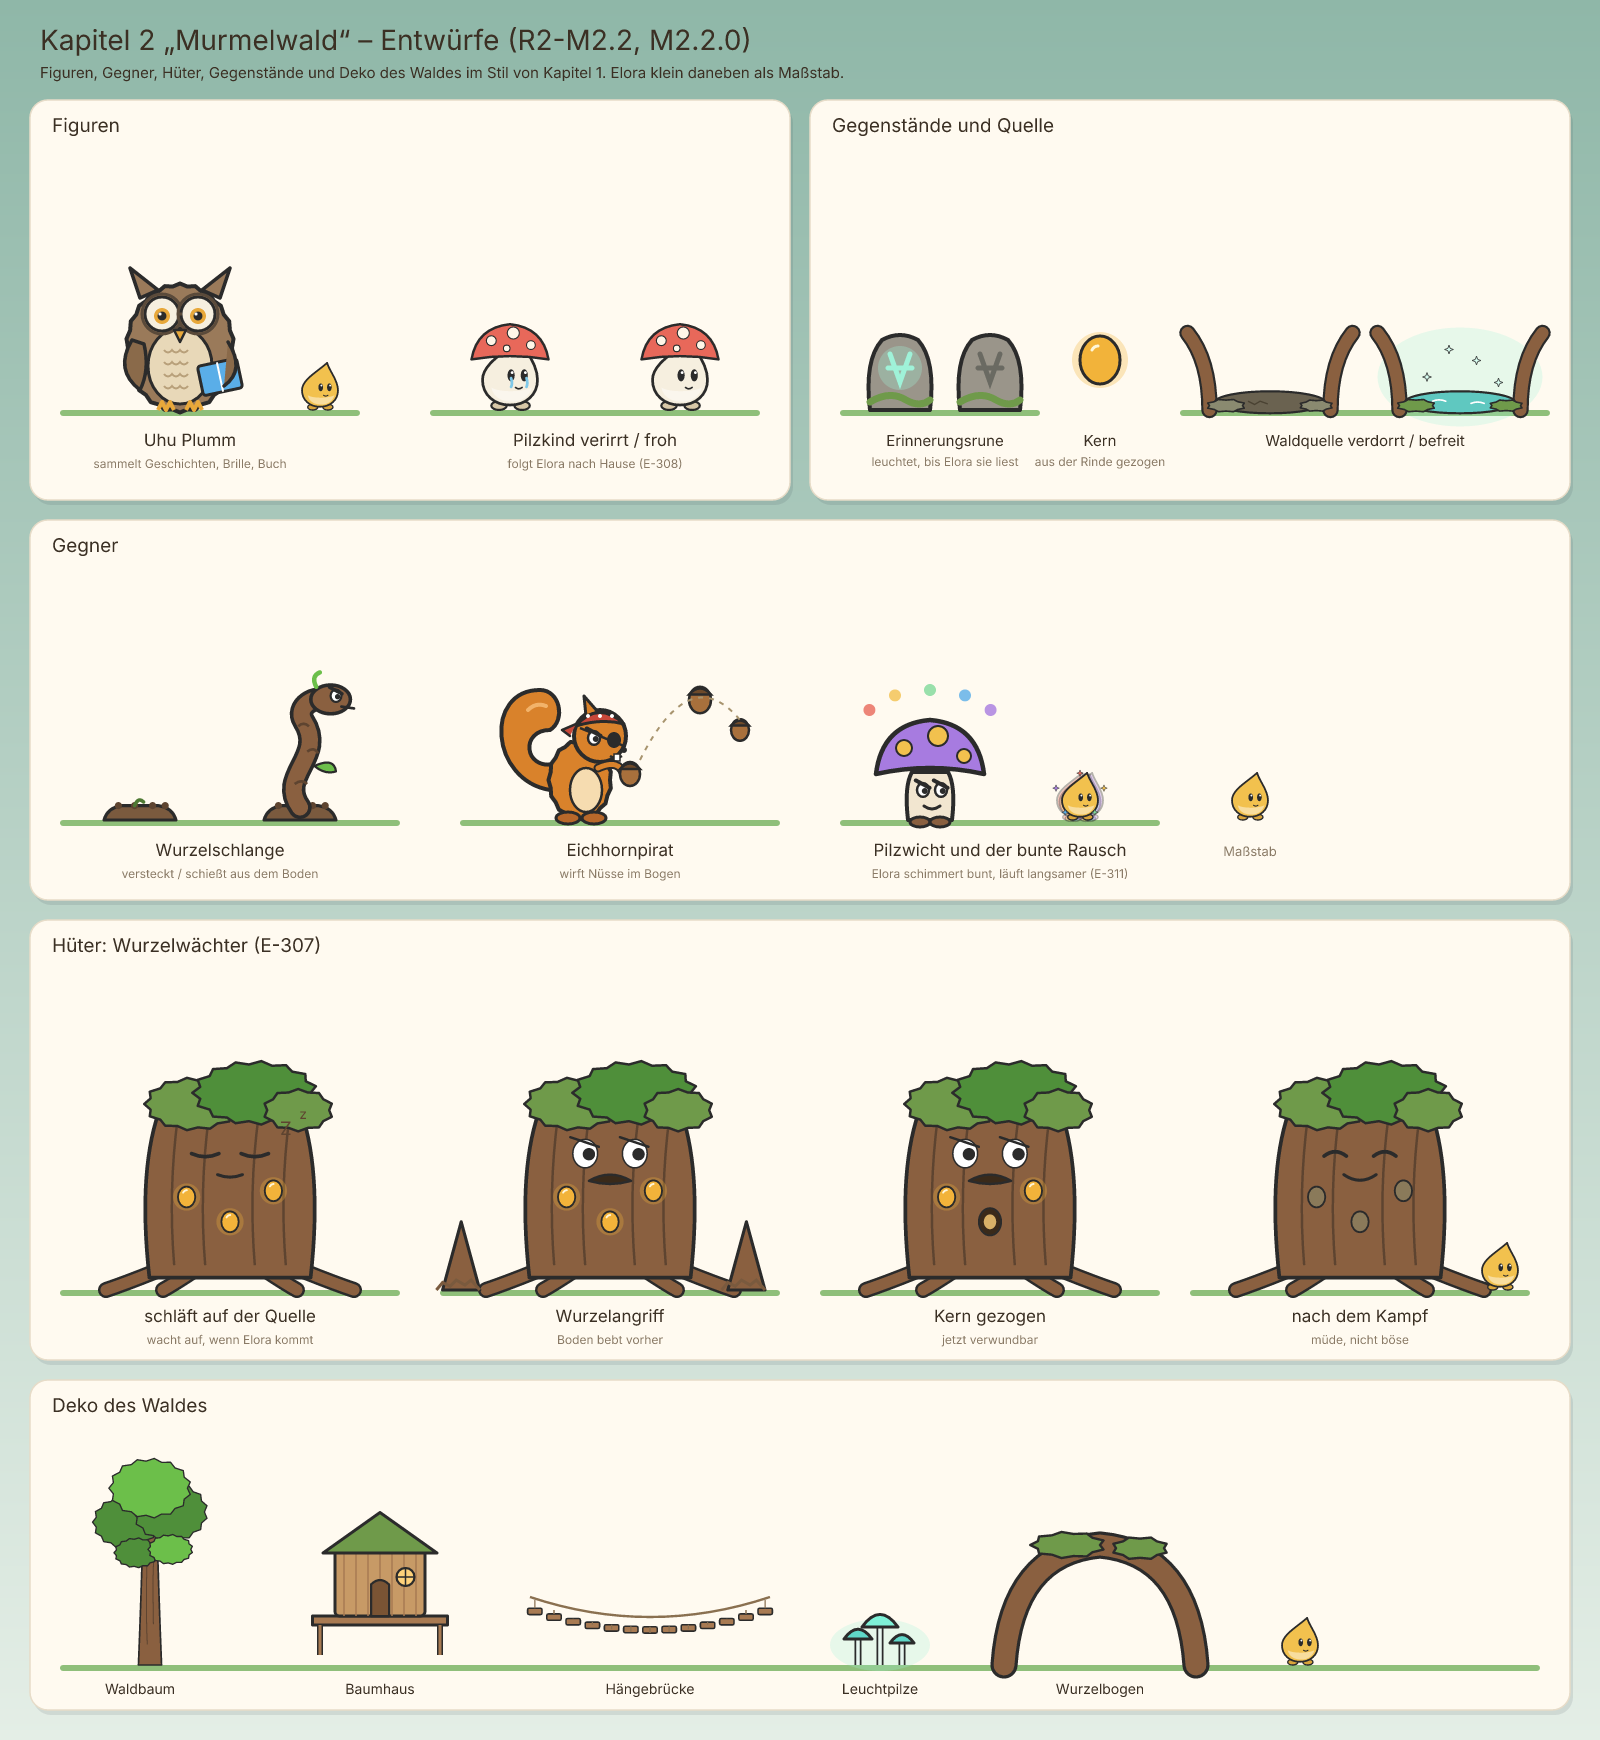
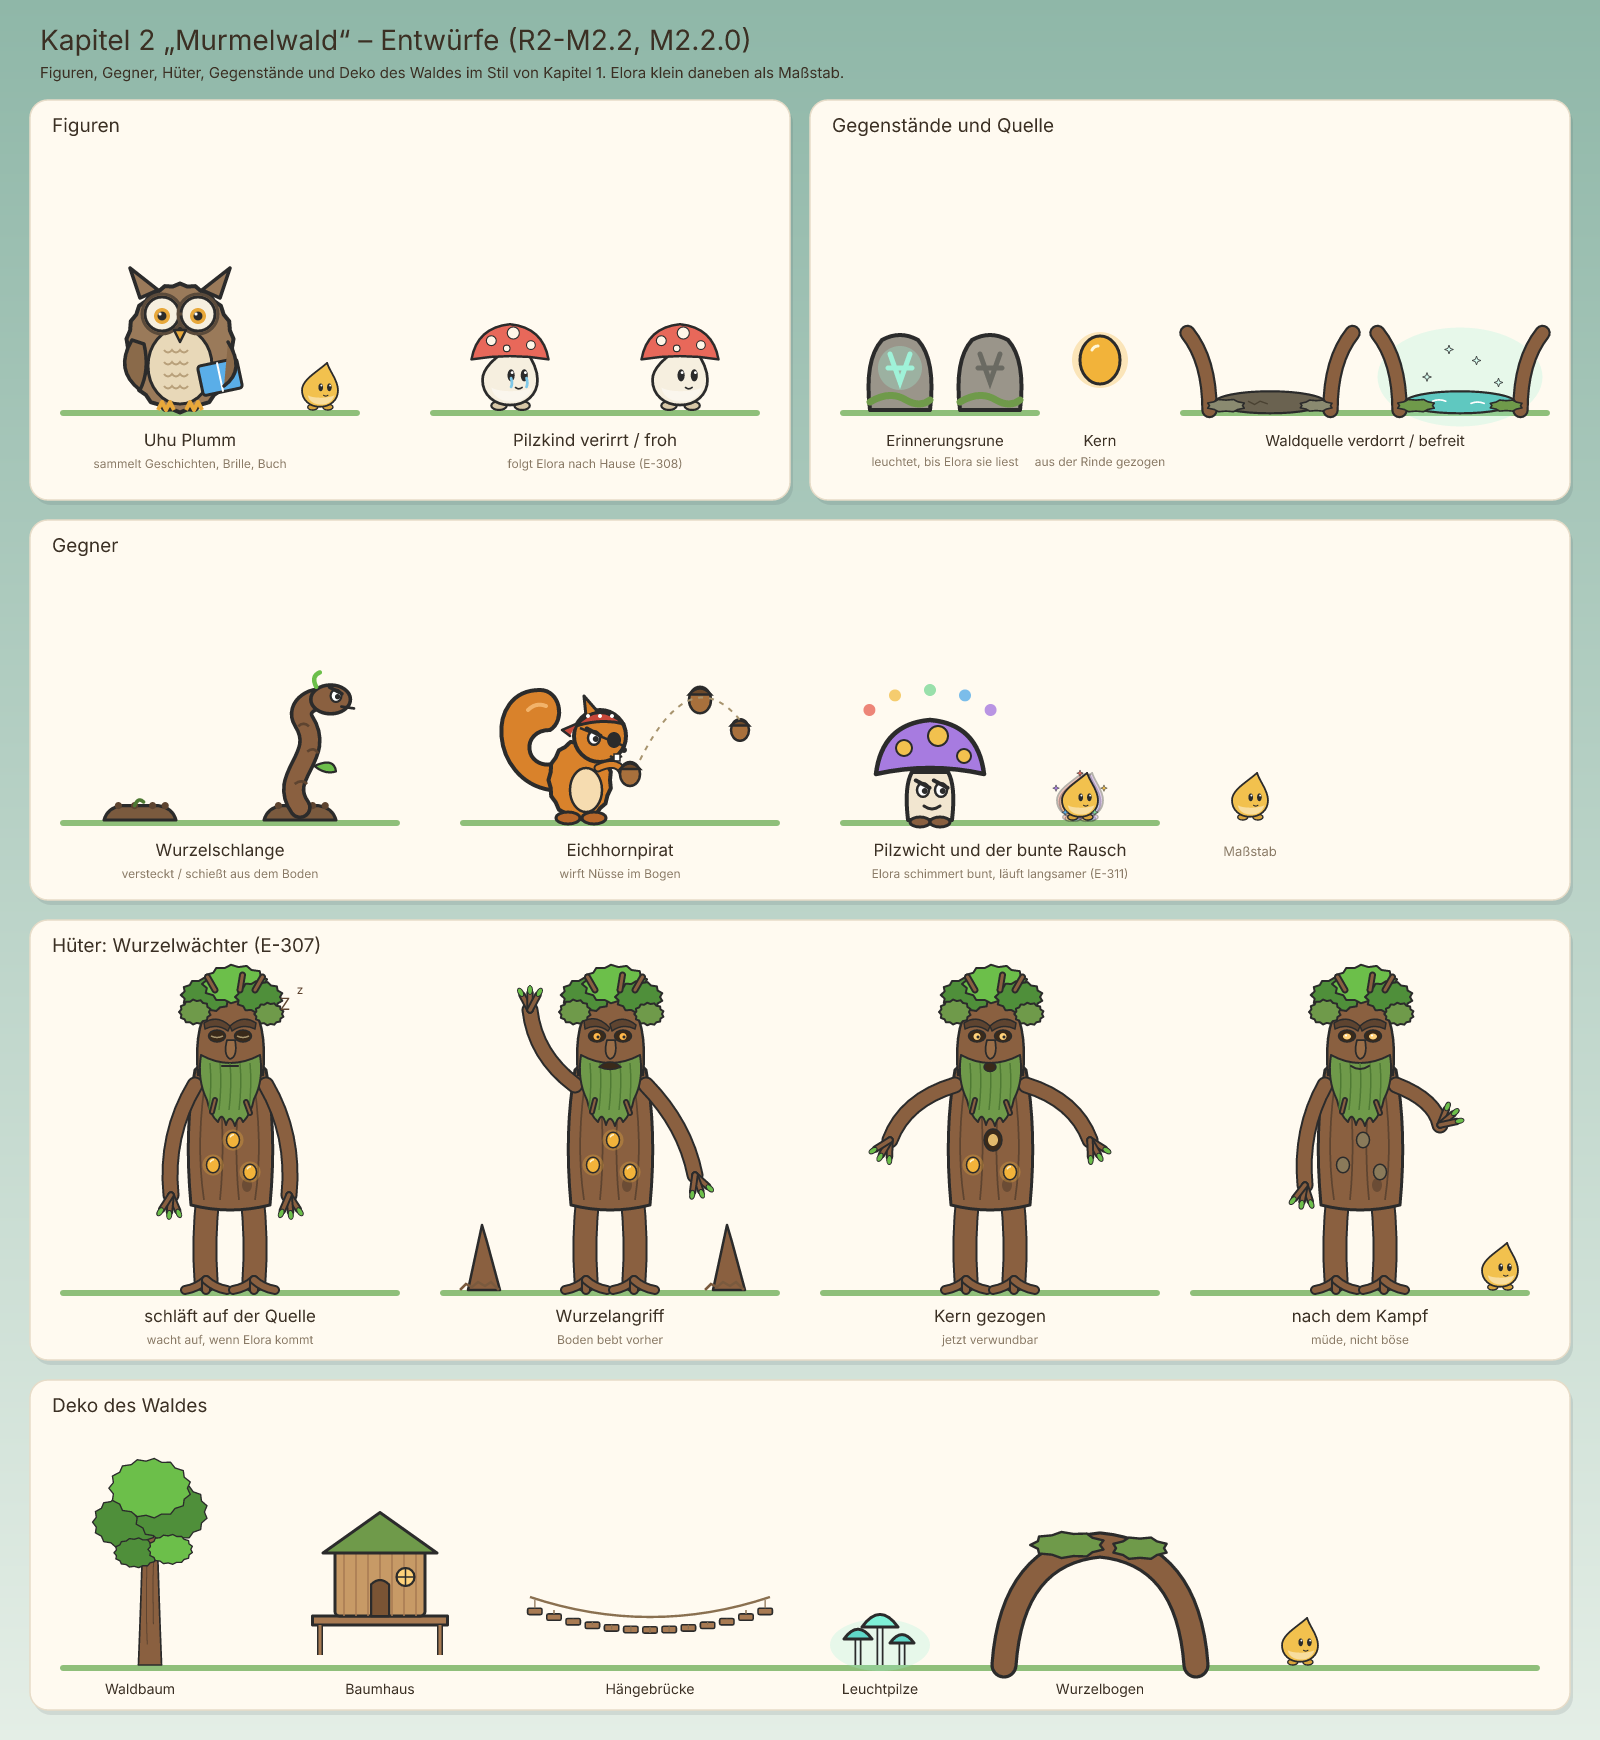
docs(design): Wurzelwächter als wandelnder Baumriese mit Bart (R2-M2.2, M2.2.0)

diff --git a/tools/design/kapitel2_entwuerfe.py b/tools/design/kapitel2_entwuerfe.py
@@ -176,47 +176,120 @@ def kern(x, y, r=14, lit=True):
     return s
 
 
-def wurzelwaechter(pose='schlaf'):
-    """Wurzelwächter: riesiger Baumstumpf mit Gesicht, Wurzelarme, drei Kerne in der Rinde.
-    Posen: schlaf, angriff (Wurzeln aus dem Boden), offen (ein Kern gezogen), ruhig (nach dem Kampf)."""
+def branch(path, w=22, fill=None):
+    """Ast/Glied: dunkler Umriss, Rinde innen."""
+    fill = fill or BARK
+    return (f'<path d="{path}" fill="none" stroke="{OUT}" stroke-width="{w + 8}" stroke-linecap="round" stroke-linejoin="round"/>'
+            f'<path d="{path}" fill="none" stroke="{fill}" stroke-width="{w}" stroke-linecap="round" stroke-linejoin="round"/>')
+
+
+def twigs(x, y, ang, n=3, length=34):
+    """Zweig-Finger am Ende eines Arms (Winkel in Grad)."""
     s = ''
-    # Wurzelfüße
-    for (x, dx) in ((-120, -50), (-60, -30), (60, 30), (120, 50)):
-        s += f'<path d="M {x},-30 Q {x + dx},-10 {x + dx * 1.6},0" fill="none" stroke="{OUT}" stroke-width="26" stroke-linecap="round"/>'
-        s += f'<path d="M {x},-30 Q {x + dx},-10 {x + dx * 1.6},0" fill="none" stroke="{BARK}" stroke-width="18" stroke-linecap="round"/>'
-    # Stamm
-    s += f'<path d="M -130,-20 Q -150,-200 -110,-300 Q 0,-340 110,-300 Q 150,-200 130,-20 Z" fill="{BARK}" {st(6)}/>'
-    for x in (-90, -40, 40, 90):
-        s += f'<path d="M {x},-40 Q {x - 10},-160 {x + 6},-280" fill="none" stroke="{BARK_DARK}" stroke-width="4"/>'
-    # Moos und Krone aus Blättern
-    s += blob(-60, -300, 70, 38, MOSS, 26, 0.12)
-    s += blob(40, -318, 90, 46, LEAF, 30, 0.12)
-    s += blob(110, -290, 50, 30, MOSS, 20, 0.14)
-    # Kerne (offen: der mittlere fehlt, Loch leuchtet)
-    for k, (x, y) in enumerate(((-70, -150), (0, -110), (70, -160))):
+    for k in range(n):
+        a = math.radians(ang + (k - (n - 1) / 2) * 28)
+        s += branch(f'M {x},{y} l {length * math.cos(a):.1f},{length * math.sin(a):.1f}', 7)
+        s += (f'<ellipse cx="{x + (length + 6) * math.cos(a):.1f}" cy="{y + (length + 6) * math.sin(a):.1f}" '
+              f'rx="9" ry="5" fill="{LEAF_LIGHT}" stroke="{OUT}" stroke-width="2" '
+              f'transform="rotate({math.degrees(a):.0f} {x + (length + 6) * math.cos(a):.1f} {y + (length + 6) * math.sin(a):.1f})"/>')
+    return s
+
+
+def wurzelwaechter(pose='schlaf'):
+    """Wurzelwächter: ein uralter, wandelnder Baumriese (Baumhirte) – Wurzelbeine, lange Astarme mit
+    Zweigfingern, Rindengesicht mit schweren Brauen, Knollennase und langem Bart aus Moos und
+    Zweigen, Blätterkrone. Drei Kerne in der Brust.
+    Posen: schlaf, angriff (Arm erhoben, Wurzeln brechen aus dem Boden), offen (ein Kern gezogen),
+    ruhig (nach dem Kampf)."""
+    s = ''
+    # Beine aus Wurzeln mit gespreizten Zehen
+    for side in (-1, 1):
+        x = side * 44
+        s += branch(f'M {x},-190 Q {x + side * 10},-100 {x + side * 4},-20', 42)
+        for k, dx in enumerate((-30, 0, 30)):
+            s += branch(f'M {x + side * 4},-20 Q {x + side * 4 + dx * 0.6},-4 {x + side * 4 + dx * 1.4},0', 12)
+    # Rumpf: hoher, leicht schiefer Stamm
+    s += (f'<path d="M -78,-170 Q -92,-320 -70,-440 Q -40,-470 0,-472 Q 44,-470 72,-440 '
+          f'Q 94,-320 80,-170 Q 0,-150 -78,-170 Z" fill="{BARK}" {st(6)}/>')
+    for x, c in ((-52, -6), (-20, 4), (18, -4), (50, 6)):
+        s += f'<path d="M {x},-180 Q {x + c * 3},-300 {x - c},-440" fill="none" stroke="{BARK_DARK}" stroke-width="3.5"/>'
+    s += f'<ellipse cx="34" cy="-210" rx="10" ry="14" fill="{BARK_DARK}" opacity="0.7"/>'
+    # Arme: Schulter bei y −410; lang, knorrig
+    if pose == 'angriff':
+        left = 'M -70,-410 Q -150,-470 -160,-560'
+        lend = (-160, -560, -90)
+        right = 'M 72,-410 Q 150,-330 170,-230'
+        rend = (170, -230, 70)
+    elif pose == 'offen':
+        left = 'M -70,-410 Q -170,-380 -200,-300'
+        lend = (-200, -300, 120)
+        right = 'M 72,-410 Q 170,-380 200,-300'
+        rend = (200, -300, 60)
+    elif pose == 'ruhig':
+        left = 'M -70,-410 Q -120,-320 -110,-210'
+        lend = (-110, -210, 100)
+        right = 'M 72,-410 Q 150,-380 160,-330'
+        rend = (160, -330, -40)
+    else:
+        left = 'M -70,-410 Q -130,-310 -118,-190'
+        lend = (-118, -190, 95)
+        right = 'M 72,-410 Q 130,-310 118,-190'
+        rend = (118, -190, 85)
+    for path, end in ((left, lend), (right, rend)):
+        s += branch(path, 26)
+        s += twigs(*end)
+    # Kerne in der Brust
+    for k, (x, y) in enumerate(((-34, -250), (6, -300), (40, -236))):
         if pose == 'offen' and k == 1:
             s += f'<ellipse cx="{x}" cy="{y}" rx="18" ry="22" fill="#3a2a1a" stroke="{OUT}" stroke-width="3"/>'
-            s += f'<ellipse cx="{x}" cy="{y}" rx="10" ry="12" fill="#ffd27a" opacity="0.8"/>'
+            s += f'<ellipse cx="{x}" cy="{y}" rx="10" ry="12" fill="#ffd27a" opacity="0.85"/>'
         else:
-            s += kern(x, y, 14, pose != 'ruhig')
-    # Gesicht
+            s += kern(x, y, 13, pose != 'ruhig')
+    # Kopf: oberer Teil des Stamms, lang gezogen
+    s += f'<path d="M -64,-430 Q -74,-540 -30,-580 Q 0,-596 34,-580 Q 76,-540 66,-430 Z" fill="{BARK}" {st(5)}/>'
+    # Krone aus Blättern und Zweigen wie Haar
+    for (x, y, rx, ry, c) in ((-46, -590, 46, 30, LEAF), (10, -612, 58, 34, LEAF_LIGHT), (58, -586, 42, 28, LEAF),
+                              (-70, -556, 28, 22, MOSS), (78, -552, 26, 20, MOSS)):
+        s += blob(x, y, rx, ry, c, 26, 0.14)
+    for (x, ang) in ((-30, -120), (20, -80), (50, -60)):
+        s += branch(f'M {x},-600 l {30 * math.cos(math.radians(ang)):.0f},{30 * math.sin(math.radians(ang)):.0f}', 6)
+    # schwere Brauen aus Rinde
+    for side in (-1, 1):
+        x = side * 26
+        lift = -4 if pose == 'angriff' else 0
+        s += (f'<path d="M {x - side * 26},{-528 + lift * side} Q {x},{-552} {x + side * 26},{-534 - lift * side} '
+              f'L {x + side * 24},{-522} Q {x},{-534} {x - side * 22},{-518} Z" fill="{BARK_DARK}" {st(3)}/>')
+    # Augen tief in der Rinde
+    for side in (-1, 1):
+        x = side * 26
+        s += f'<ellipse cx="{x}" cy="-508" rx="17" ry="12" fill="#3a2a1a" stroke="{OUT}" stroke-width="3"/>'
+        if pose == 'schlaf':
+            s += f'<path d="M {x - 12},-508 Q {x},-502 {x + 12},-508" fill="none" stroke="#a8946e" stroke-width="3"/>'
+        elif pose == 'ruhig':
+            s += f'<ellipse cx="{x}" cy="-507" rx="8" ry="6" fill="#ffd27a"/><circle cx="{x - 2}" cy="-509" r="2" fill="#ffffff"/>'
+        else:
+            glow = '#ffb84a' if pose == 'angriff' else '#ffd27a'
+            s += f'<ellipse cx="{x}" cy="-507" rx="7" ry="7" fill="{glow}"/><circle cx="{x + 2}" cy="-506" r="3" fill="{OUT}"/>'
+    # Knollennase
+    s += f'<path d="M -6,-500 Q -14,-470 0,-462 Q 16,-466 10,-500 Z" fill="#9a6e48" {st(3.5)}/>'
+    # Mund im Bart
+    mouth = {'angriff': f'<path d="M -22,-446 Q 0,-466 22,-446 Q 0,-436 -22,-446 Z" fill="#3a2a1a" {st(3)}/>',
+             'offen': f'<ellipse cx="0" cy="-446" rx="12" ry="9" fill="#3a2a1a" {st(3)}/>',
+             'ruhig': f'<path d="M -18,-448 Q 0,-436 18,-448" fill="none" stroke="{OUT}" stroke-width="4" stroke-linecap="round"/>'}
+    # langer Bart aus Moos und Zweigen
+    beard = (f'<path d="M -58,-470 Q -66,-420 -46,-380 Q -40,-350 -24,-336 Q -16,-360 -8,-330 Q 0,-356 10,-328 '
+             f'Q 18,-356 26,-336 Q 42,-352 48,-382 Q 68,-420 60,-470 Q 0,-438 -58,-470 Z" fill="{MOSS}" {st(4)}/>')
+    s += beard
+    for x in (-40, -20, 0, 20, 40):
+        s += f'<path d="M {x},-454 Q {x + 4},-410 {x - 2},-360" fill="none" stroke="{MOSS_DARK}" stroke-width="3"/>'
+    s += branch('M -30,-380 l -6,24', 4) + branch('M 32,-376 l 8,22', 4)
+    s += mouth.get(pose, f'<path d="M -16,-448 H 16" stroke="{OUT}" stroke-width="4" stroke-linecap="round"/>')
     if pose == 'schlaf':
-        for ex in (-40, 40):
-            s += f'<path d="M {ex - 22},-220 Q {ex},-210 {ex + 22},-220" fill="none" stroke="{OUT}" stroke-width="6" stroke-linecap="round"/>'
-        s += f'<path d="M -20,-186 Q 0,-178 20,-186" fill="none" stroke="{OUT}" stroke-width="5" stroke-linecap="round"/>'
-        s += text(90, -250, 'Z', 30, '#5e4430', weight='bold') + text(118, -276, 'z', 22, '#5e4430', weight='bold')
-    elif pose == 'ruhig':
-        for ex in (-40, 40):
-            s += f'<path d="M {ex - 18},-216 Q {ex},-230 {ex + 18},-216" fill="none" stroke="{OUT}" stroke-width="6" stroke-linecap="round"/>'
-        s += f'<path d="M -26,-186 Q 0,-168 26,-186" fill="none" stroke="{OUT}" stroke-width="5" stroke-linecap="round"/>'
-    else:
-        s += angry_eye(-40, -220, 20, 1.5) + angry_eye(40, -220, 20, 1.5)
-        s += f'<path d="M -34,-176 Q 0,-196 34,-176 Q 0,-166 -34,-176 Z" fill="#3a2a1a" {st(4)}/>'
+        s += text(110, -560, 'Z', 34, '#5e4430', weight='bold') + text(140, -592, 'z', 24, '#5e4430', weight='bold')
     if pose == 'angriff':
-        # Wurzeln brechen aus dem Boden
-        for x in (-240, 220):
-            s += f'<path d="M {x - 30},0 L {x},-110 L {x + 30},0 Z" fill="{BARK}" {st(5)}/>'
-            s += f'<path d="M {x - 40},0 l 10,-12 l 12,6 l 10,-10 l 14,8 l 10,-8 l 14,16" fill="none" stroke="#7a5a3e" stroke-width="5"/>'
+        for x in (-250, 240):
+            s += f'<path d="M {x - 34},0 L {x - 6},-130 L {x + 4},-96 L {x + 30},0 Z" fill="{BARK}" {st(5)}/>'
+            s += f'<path d="M {x - 50},0 l 12,-12 l 12,6 l 12,-10 l 14,8 l 12,-8 l 16,16" fill="none" stroke="#7a5a3e" stroke-width="5"/>'
     return s
 
 
@@ -350,7 +423,7 @@ def sheet():
                                 (610, 'angriff', 'Wurzelangriff', 'Boden bebt vorher'),
                                 (990, 'offen', 'Kern gezogen', 'jetzt verwundbar'),
                                 (1360, 'ruhig', 'nach dem Kampf', 'müde, nicht böse')):
-        o.append(ground(x - 170, 1290, 340) + g(x, 1290, 0.62, wurzelwaechter(pose)))
+        o.append(ground(x - 170, 1290, 340) + g(x, 1290, 0.5, wurzelwaechter(pose)))
         o.append(text(x, 1322, name, 17, TEXT, weight='bold'))
         o.append(text(x, 1344, note, 12, DIM))
     o.append(elora(1500, 1290))
